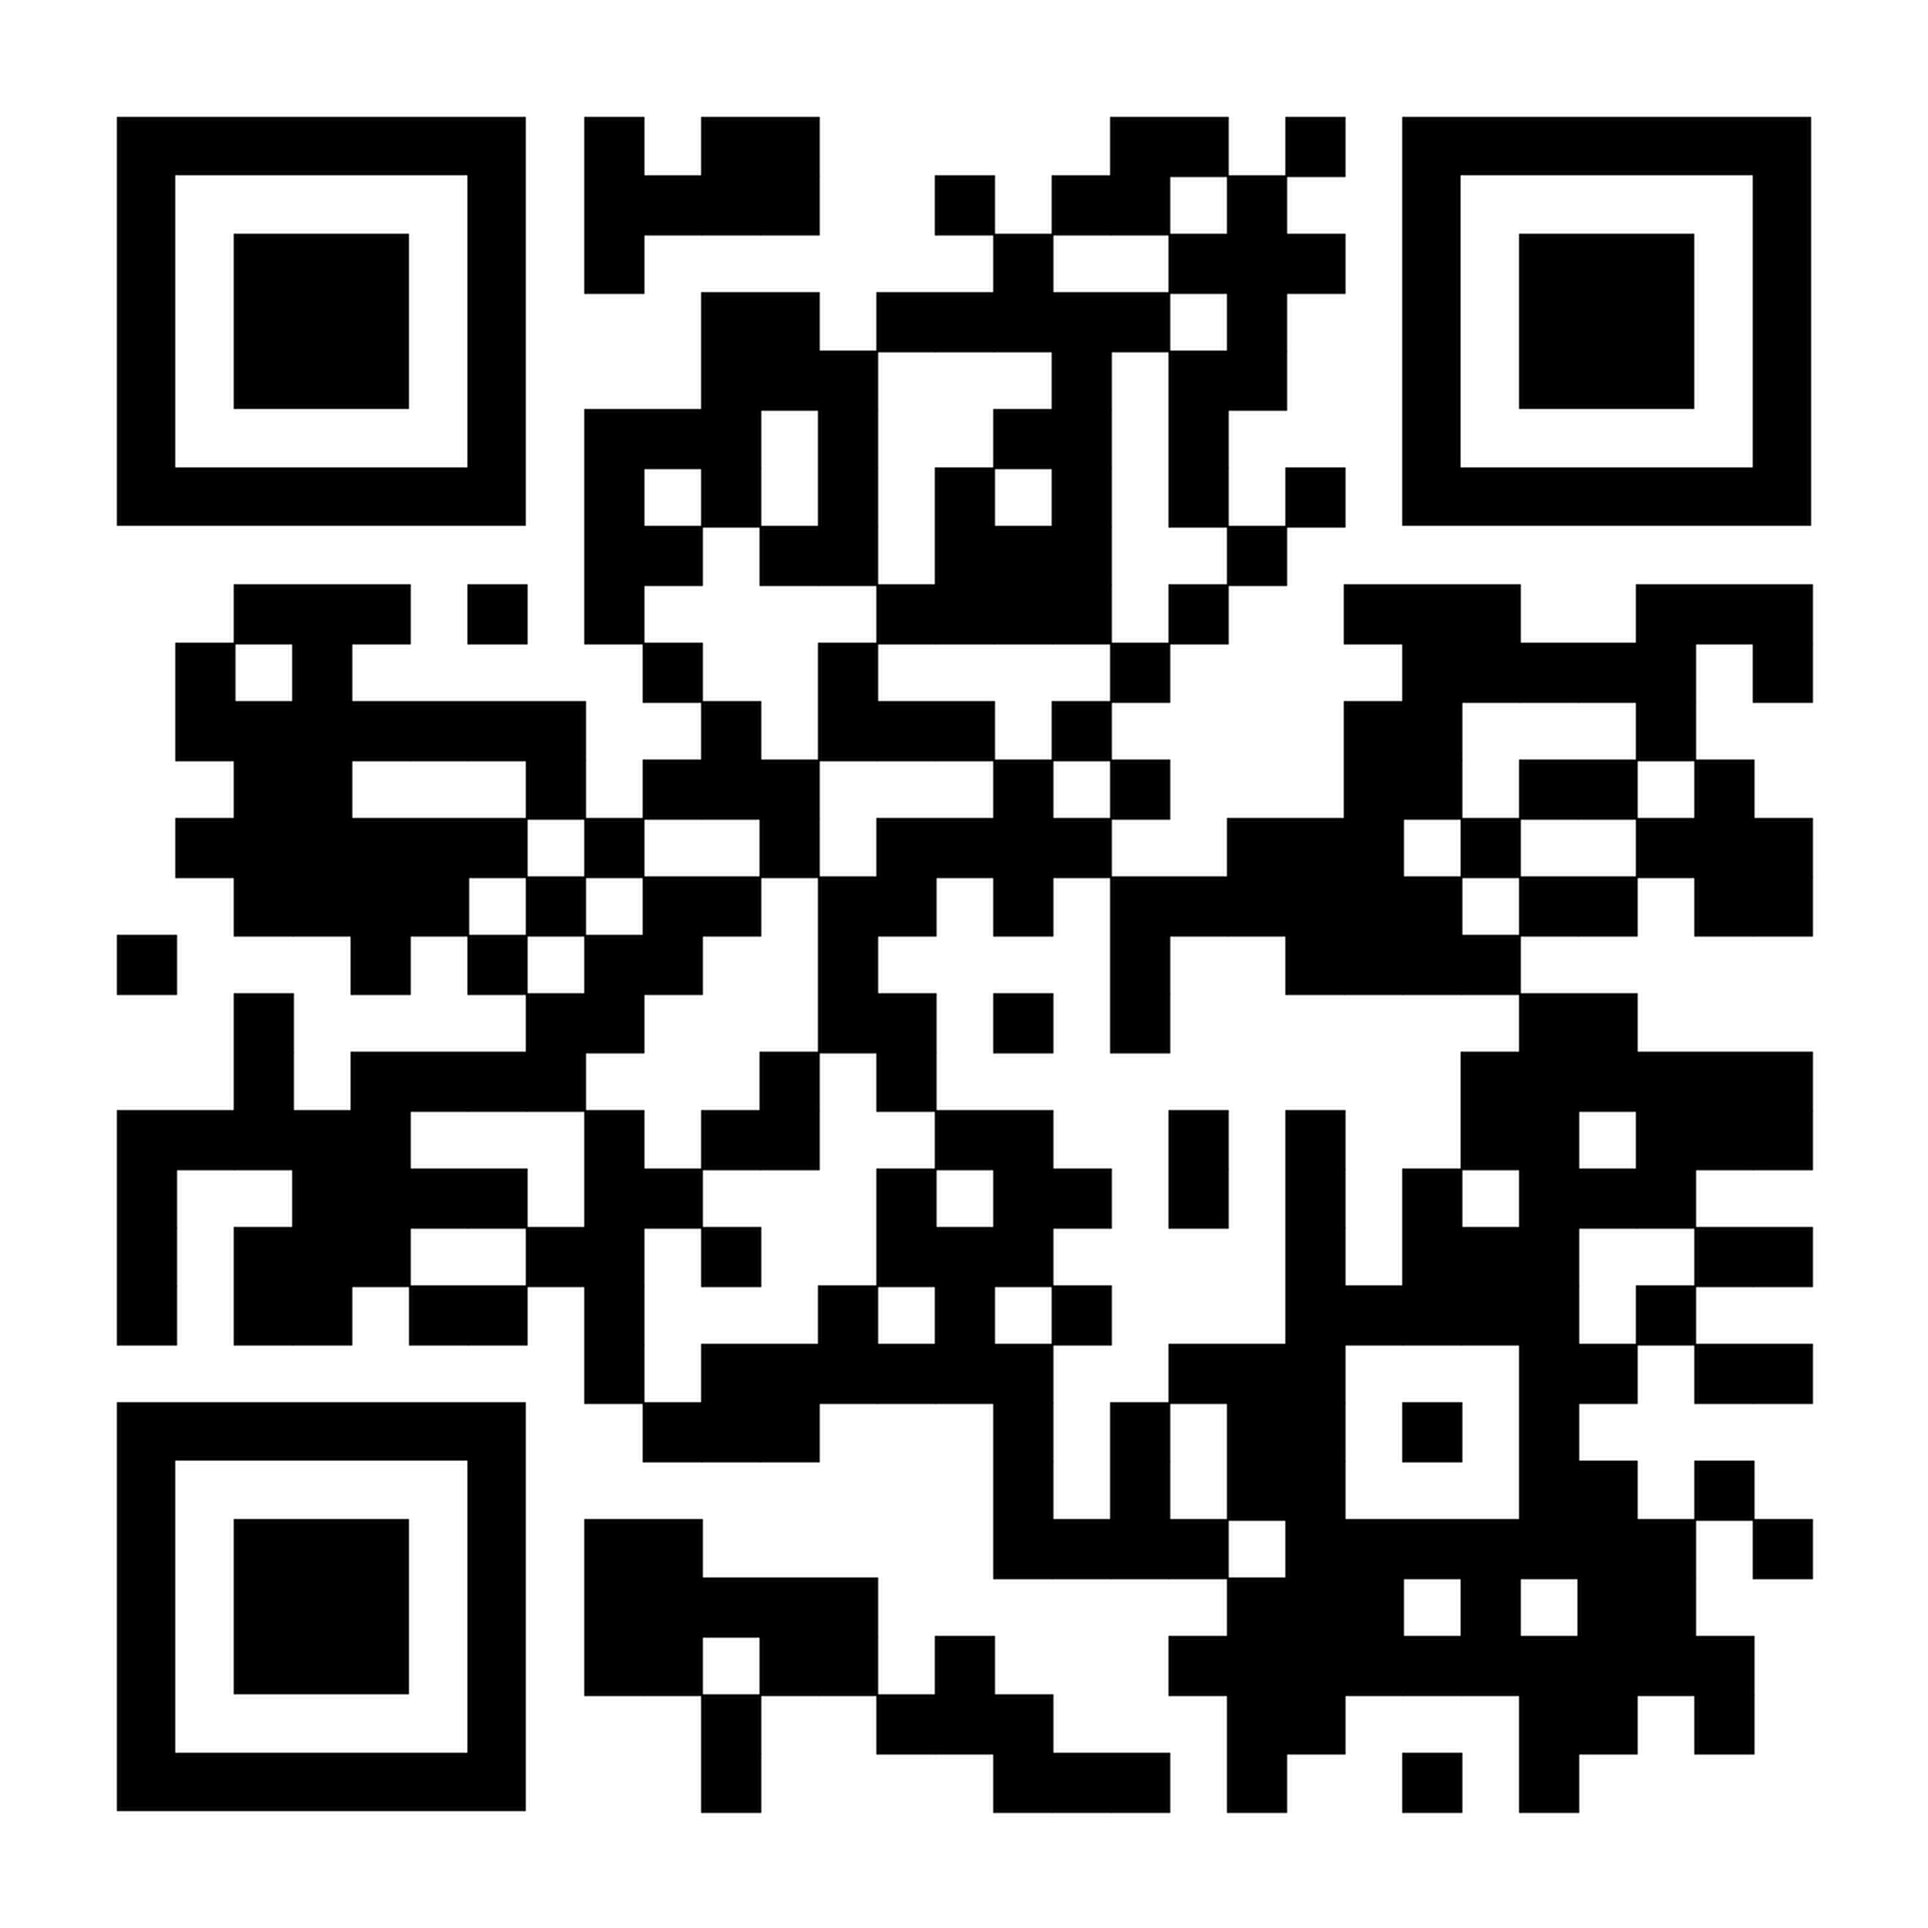
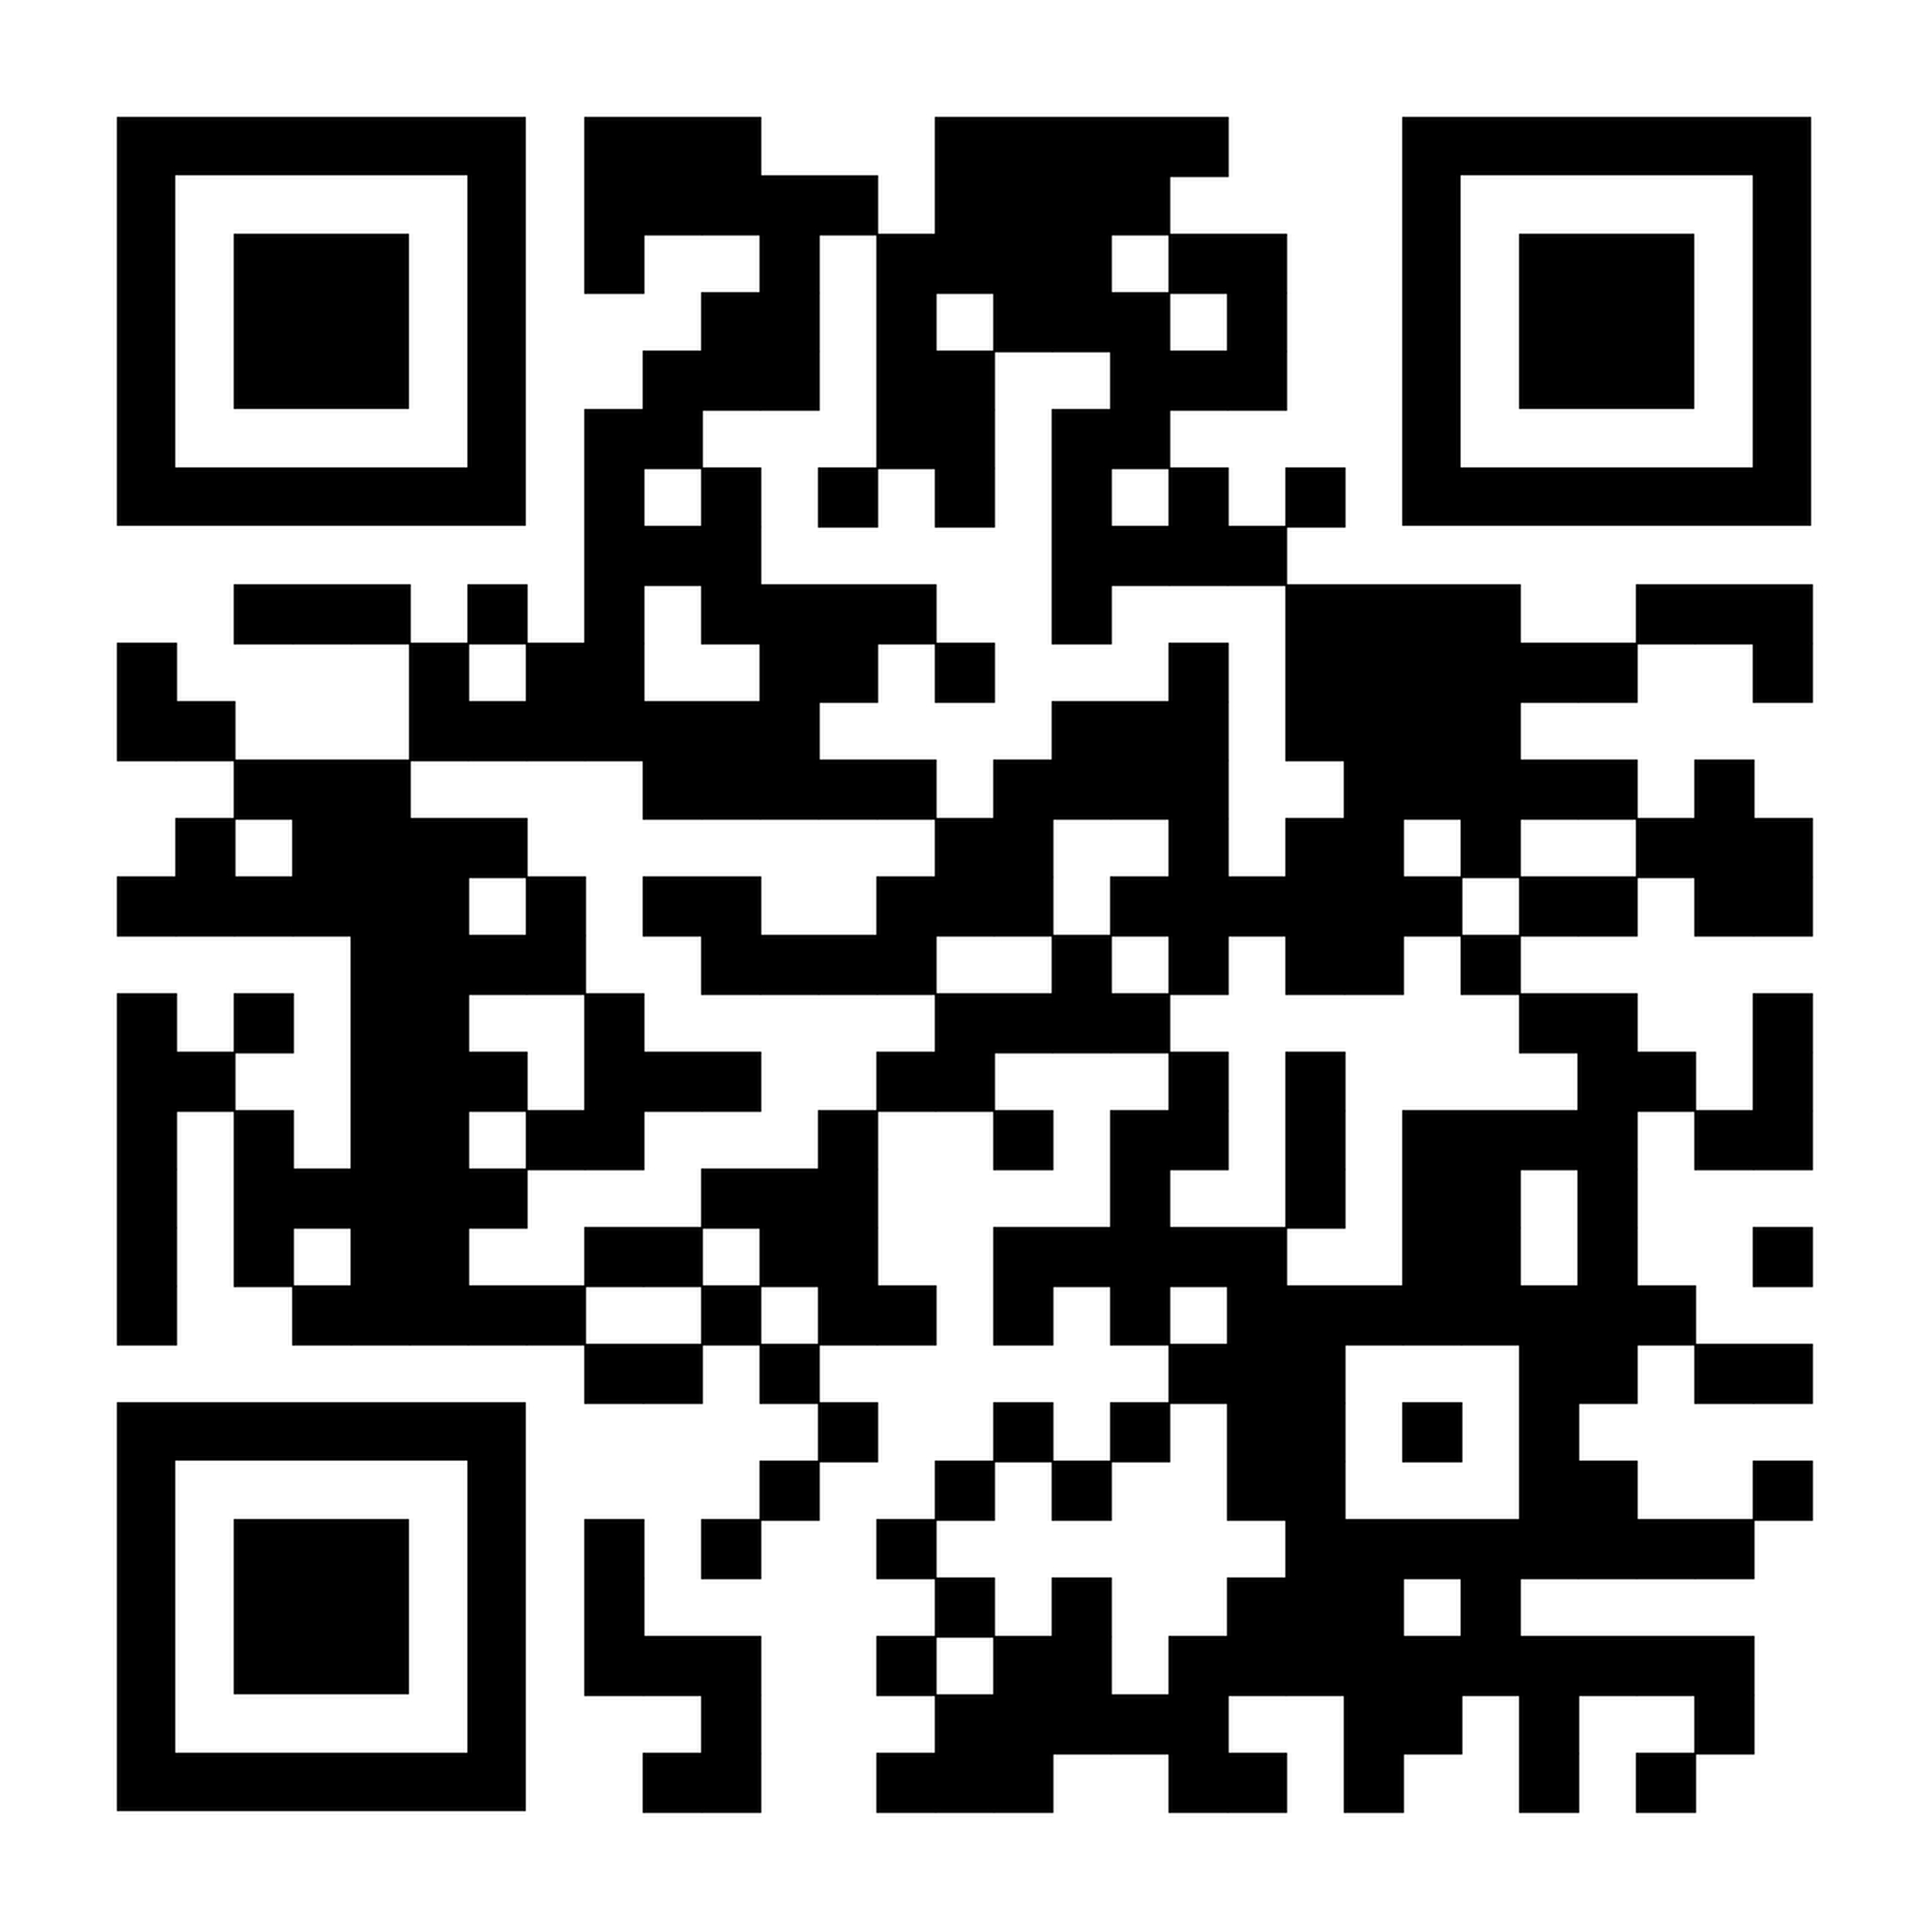
Add files via upload

diff --git a/portafolio_karina.html b/portafolio_karina.html
@@ -1,0 +1,109 @@
+<!DOCTYPE html>
+<html lang="en">
+<head>
+  <meta charset="UTF-8" />
+  <meta name="viewport" content="width=device-width, initial-scale=1" />
+  <title>Karina</title>
+  <link rel="stylesheet" href="portafolio.css" />
+</head>
+<body>
+  <div class="container">
+    <nav class="Menu">
+      <h1><strong>KARINA ANDREA HENAO ZULETA - Riwi coder</strong></h1>
+      <ul>
+        <li><a href="#info">About me</a></li>
+        <li><a href="#skills">My skills</a></li>
+        <li><a href="#projects">My projects</a></li>
+        <li><a href="#contact">My contacts</a></li>
+      </ul>
+    </nav>
+
+    <div class="section" id="info">
+      <h2>About me:</h2>
+      <p>
+        Hello, I am Karina Andrea Henao Zuleta, I am Riwi coder, actually I am
+        learning programming languages like Python, HTML, CSS and others.<br />
+        I love learning software topics and new technologies.
+      </p>
+    </div>
+
+    <div class="section">
+      <img width="60px" src="karina.png" alt="Riwi Imagen" />
+    </div>
+
+    <div class="section" id="skills">
+      <h2>My skills:</h2>
+      <ul>
+        <li>I am very creative</li>
+        <li>I like to learn</li>
+        <li>I can learn topics quickly</li>
+        <li>I have the ability to work in a team</li>
+        <li>Python</li>
+        <li>HTML</li>
+        <li>Java</li>
+      </ul>
+    </div>
+
+    <div class="section" id="projects">
+      <h2>My projects:</h2>
+      <p>
+        My first project is a program that manages a library, allowing you to add, lend, return,
+        filter and delete books. It is created with Python.
+      </p>
+
+      <div class="repo-table-container">
+        <table class="repo-table" border="3">
+          <thead>
+            <tr>
+              <th>Project</th>
+              <th>Description</th>
+              <th>Technologies</th>
+              <th>Link</th>
+            </tr>
+          </thead>
+          <tbody>
+            <tr>
+              <td>Library Manager</td>
+              <td>App to manage books: add, lend, return, filter, delete.</td>
+              <td>Python</td>
+              <td><a href="https://github.com/Karina0517/tallerLibreria.git" target="_blank">GitHub</a></td>
+            </tr>
+            <tr>
+              <td>Dolce Italian</td>
+              <td>A Italian food page, in this page we can see the menu and prices</td>
+              <td>HTML, CSS</td>
+              <td><img src="./dolce.jpg" alt="qr code"></td>
+            </tr>
+          </tbody>
+        </table>
+      </div>
+    </div>
+
+    <div class="section" id="contact">
+      <h2>My contacts:</h2>
+      <p>GitHub:</p>
+      <p>Phone: 319 616 4048</p>
+
+      <h3>Contact form</h3>
+      <form>
+        <div class="input-group">
+          <label for="name">Name:</label><br />
+          <input type="text" id="name" name="name" placeholder="Your name" />
+        </div>
+
+        <div class="input-group">
+          <label for="email">Email:</label><br />
+          <input type="email" id="email" name="email" placeholder="Your email" />
+        </div>
+
+        <div class="input-group">
+          <label for="message">Message:</label><br />
+          <textarea id="message" name="message" placeholder="Write your message"></textarea>
+        </div>
+
+        <button type="submit">Send</button>
+      </form>
+    </div>
+  </div>
+</body>
+</html>
